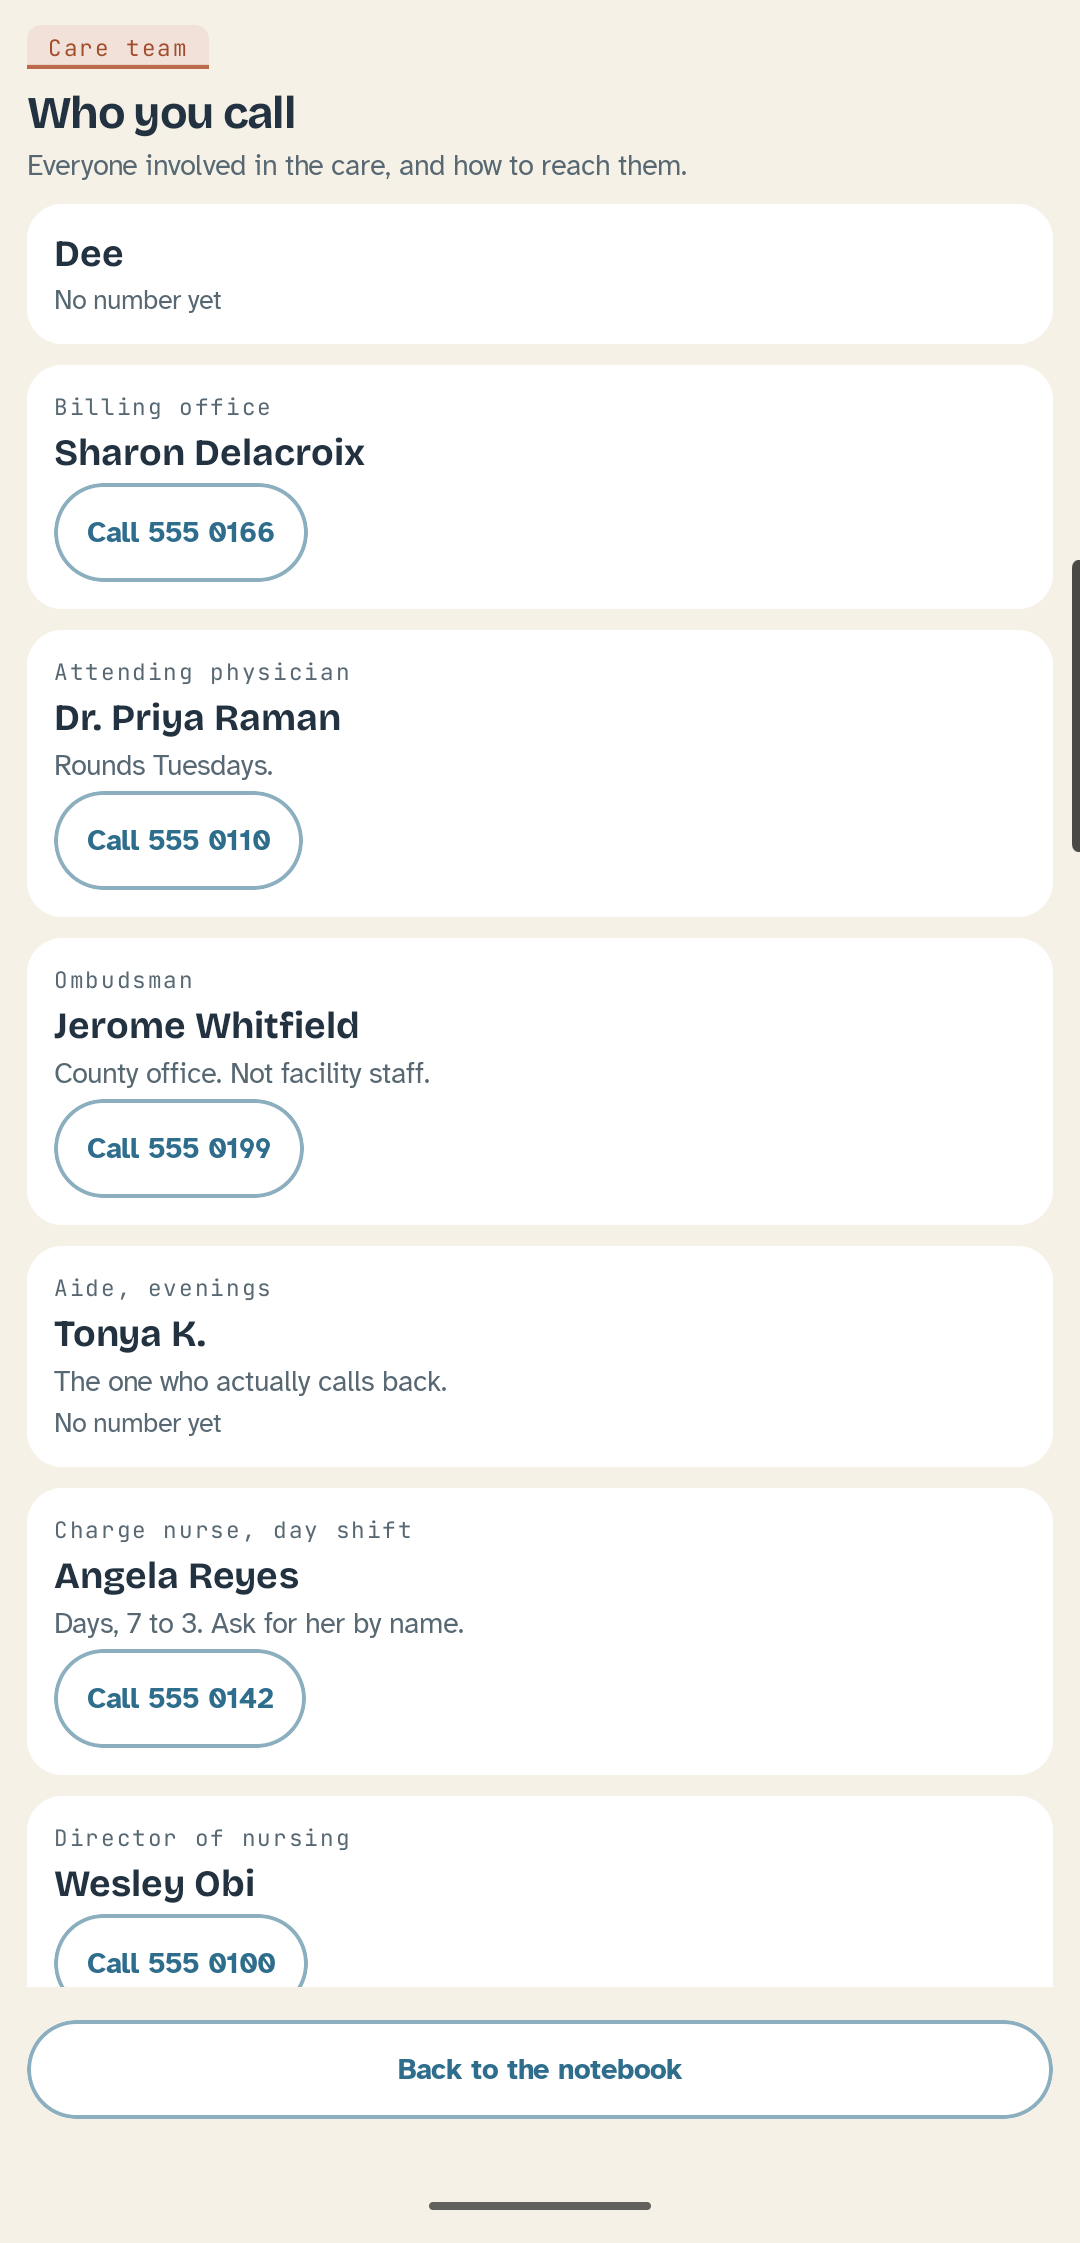
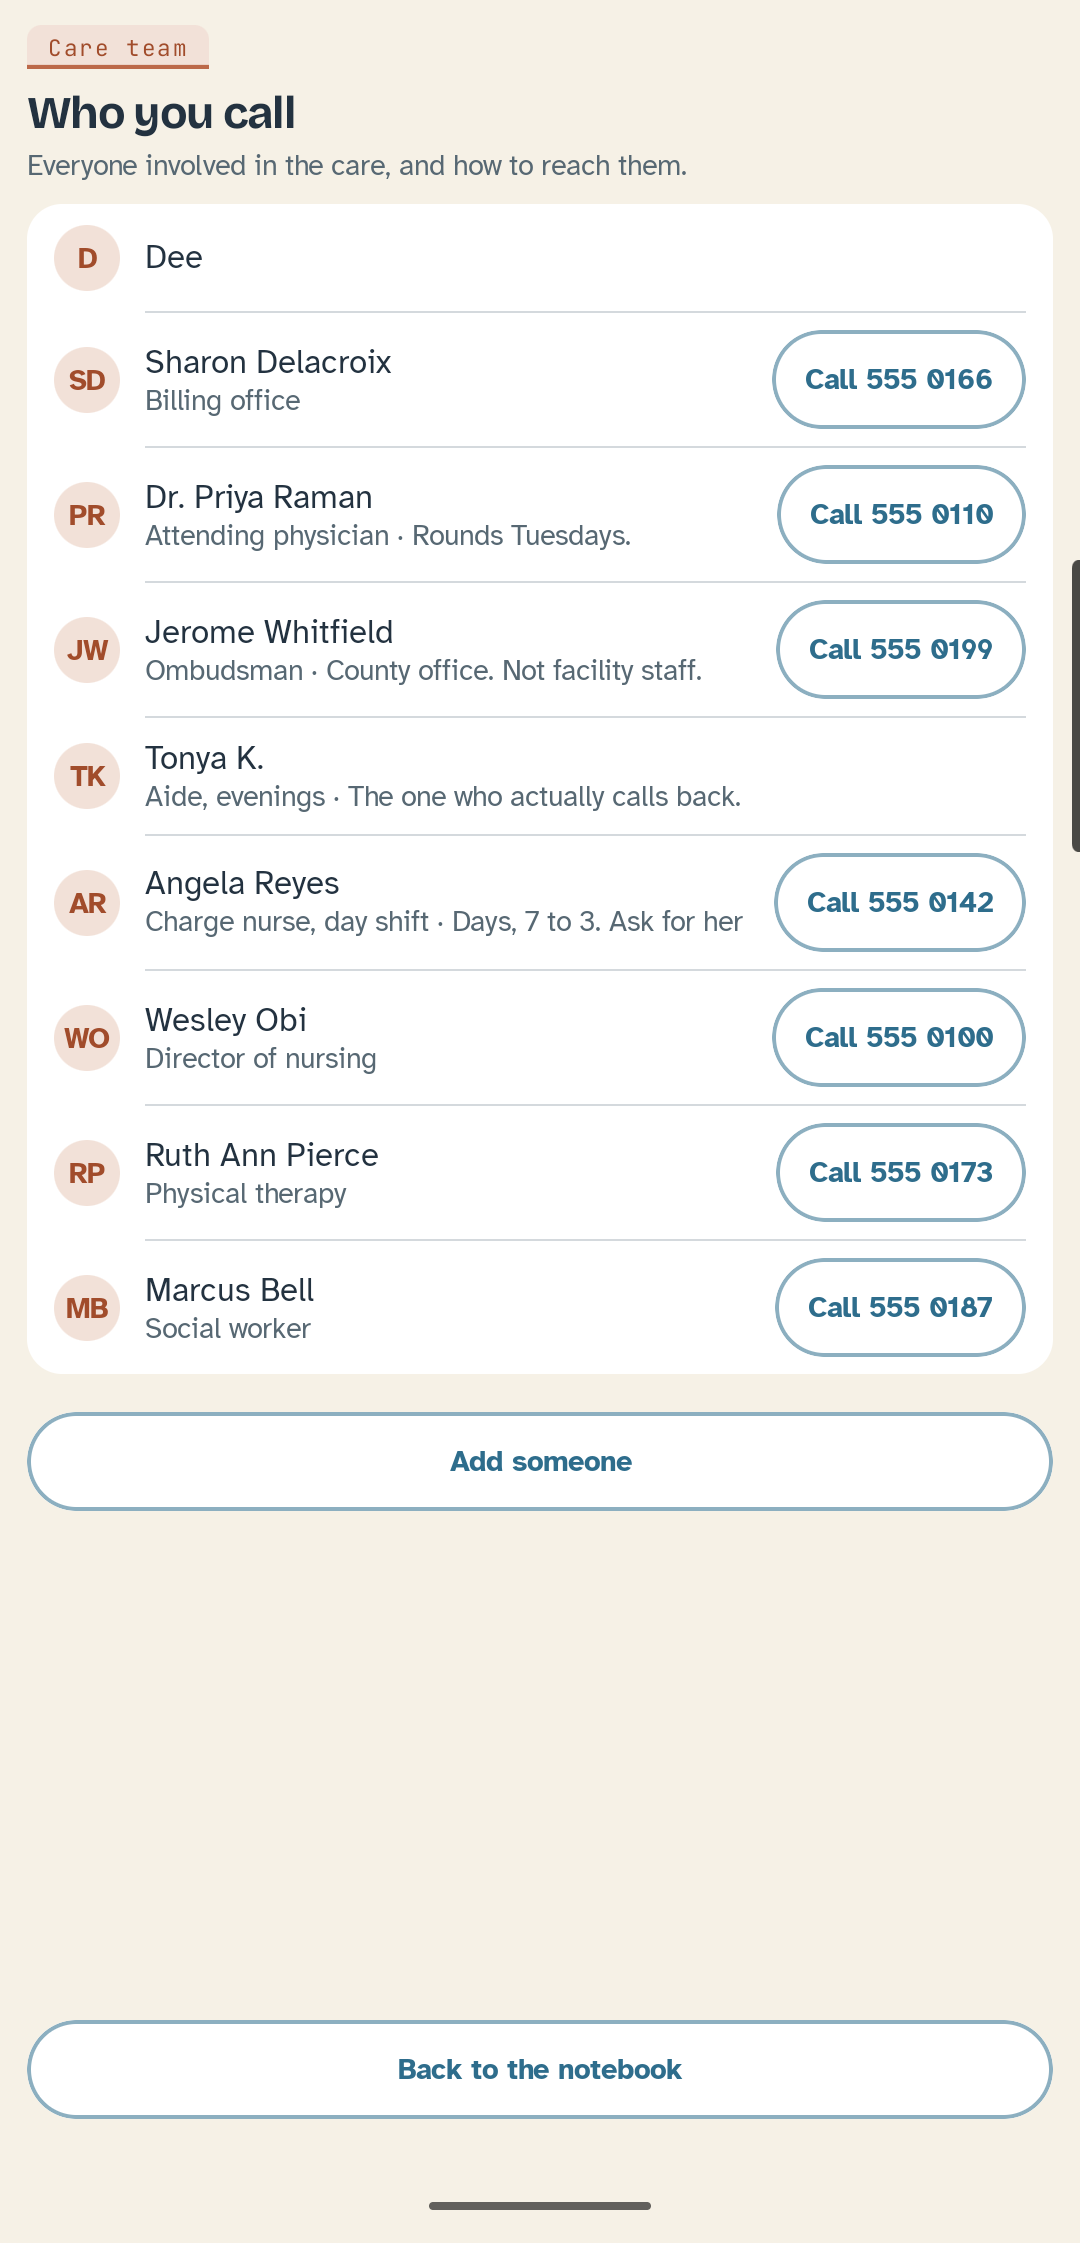
The care team is rows with faces, not a column of cards
#174, and the first section screen converted to the v4 shape.

Nine cards took two and a half screens. Nine dense rows with initial marks
take one, which is the difference between a list you scroll and a list you
scan, and scanning is what somebody does when they are looking for the one
person who calls back.

A card is for something with three or more lines a person reads. A name, a
role and a number is not that: it is something they scan for. DESIGN.md 7.

The number is an outlined action on the row itself, which is what grid
screen 11 draws and what law 2 gives to a dialable thing. It is the one
action worth taking about a person from a list, and it saves opening them
first to find it.

One grouped surface with hairlines rather than nine separate cards, so the
roster reads as one thing.

And the avatar's honorific handling is visible in the real app for the
first time: Dr. Priya Raman gives PR rather than DR. That defect was caught
by a unit test before any screen used the component, and this is what it
looks like when it is right.

diff --git a/android/app/src/main/kotlin/com/kamsiob/healthtrail/ui/screens/CareTeamScreen.kt b/android/app/src/main/kotlin/com/kamsiob/healthtrail/ui/screens/CareTeamScreen.kt
@@ -14,6 +14,10 @@ import androidx.compose.ui.platform.testTag
 import com.kamsiob.healthtrail.data.Repository
 import com.kamsiob.healthtrail.i18n.LocalStrings
 import com.kamsiob.healthtrail.ui.components.QuietButton
+import com.kamsiob.healthtrail.ui.theme.hueFor
+import com.kamsiob.healthtrail.ui.components.GroupedSurface
+import com.kamsiob.healthtrail.ui.components.DenseRow
+import com.kamsiob.healthtrail.ui.components.Avatar
 import com.kamsiob.healthtrail.ui.components.removableByLongPress
 import com.kamsiob.healthtrail.ui.components.TextAction
 import com.kamsiob.healthtrail.ui.theme.HealthTrail
@@ -72,14 +76,21 @@ fun CareTeamScreen(
             item { Spacer(Modifier.height(Space.l)) }
         }
 
-        for (person in people) {
-            item(key = person.id) {
-                PersonRow(
-                    person = person,
-                    onCall = { onCall(person) },
-                    onRemove = { onRemove(person) },
-                    onOpen = { onOpen(person) },
-                )
+        // **One group, not one card each.** The grid draws the people you call
+        // as a single grouped surface with hairlines between them.
+        if (people.isNotEmpty()) {
+            item {
+                GroupedSurface {
+                    people.forEachIndexed { index, person ->
+                        PersonRow(
+                            person = person,
+                            onCall = { onCall(person) },
+                            onRemove = { onRemove(person) },
+                            onOpen = { onOpen(person) },
+                            isLast = index == people.lastIndex,
+                        )
+                    }
+                }
                 Spacer(Modifier.height(Space.cardGap))
             }
         }
@@ -112,6 +123,7 @@ private fun PersonRow(
     onCall: () -> Unit,
     onRemove: () -> Unit,
     onOpen: () -> Unit,
+    isLast: Boolean,
 ) {
     val strings = LocalStrings.current
     val colors = HealthTrail.colors
@@ -128,65 +140,44 @@ private fun PersonRow(
     // be the app characterizing somebody it knows nothing about.
     val heading = name ?: phone ?: role
 
-    Column(
-        modifier = Modifier
-            .fillMaxWidth()
-            .clip(Radius.card)
-            .background(colors.card)
-            // **A tap opens the person now, rather than the form for
-            // correcting them.** Correcting a number is the rarer thing, and
-            // it moved onto the person's own page beside everything else about
-            // them. What a tap should open is the thing itself, which is the
-            // same rule the trail row learned tonight.
-            .removableByLongPress(strings["edit.hint"], onRemove, onOpen)
-            .testTag(CareTeamTags.person(person.id))
-            .padding(Space.cardPadding),
-    ) {
-        // The role is the eyebrow only when it is not already carrying the
-        // heading, so it never appears twice on the same card.
-        if (role != null && heading != role) {
-            Text(text = role, style = HealthTrail.type.mono, color = colors.ink2)
-            Spacer(Modifier.height(Space.xs))
-        }
-
-        if (heading != null) {
-            Text(
-                text = heading,
-                style = HealthTrail.type.displayS,
-                color = colors.ink,
-            )
-        }
-
-        person.notes?.takeIf { it.isNotBlank() }?.let { notes ->
-            Spacer(Modifier.height(Space.xs))
-            Text(text = notes, style = HealthTrail.type.bodyM, color = colors.ink2)
-        }
-
-        Spacer(Modifier.height(Space.xs))
-
-        if (phone != null) {
-            // A text action rather than a filled button. There is one per card,
-            // and a column of filled buttons turns a quiet list into a wall of
-            // blue, which is section 2.2's accent spent on repetition. The
-            // Unfiled tray made the same call for the same reason.
-            //
-            // When the number is already the heading, the action says "Call"
-            // rather than repeating the number two lines under itself.
-            TextAction(
-                label = if (heading == phone) {
-                    strings["careteam.call"]
-                } else {
-                    strings("careteam.call.number", "number" to phone)
-                },
-                onClick = onCall,
-                modifier = Modifier.testTag(CareTeamTags.call(person.id)),
-            )
+    // **A dense row with an avatar, not a card.** Grid screen 11, and
+    // `DESIGN.md` 7: a card is for something with three or more lines a person
+    // reads, and this is a name, a role and a number somebody scans for. Twelve
+    // cards is a wall; twelve rows with initial marks is scannable in one pass.
+    //
+    // **The number is an outlined action on the row itself**, which is what the
+    // grid draws and what law 2 gives to a dialable thing. It is the one action
+    // worth taking about a person from a list, and it saves opening them first.
+    DenseRow(
+        title = heading.orEmpty(),
+        subtitle = listOfNotNull(
+            role.takeIf { it != heading },
+            person.notes?.takeIf { it.isNotBlank() },
+        ).joinToString(" · ").takeIf { it.isNotBlank() },
+        leading = {
+            // The subject's own avatar carries blue, per `DESIGN.md` 7, and
+            // there is exactly one of them. Everyone else is the section's rose.
+            Avatar(name = heading.orEmpty(), hue = hueFor(Repository.Section.CARE_TEAM))
+        },
+        trailingContent = if (phone != null) {
+            {
+                QuietButton(
+                    label = if (heading == phone) {
+                        strings["careteam.call"]
+                    } else {
+                        strings("careteam.call.number", "number" to phone)
+                    },
+                    onClick = onCall,
+                    modifier = Modifier.testTag(CareTeamTags.call(person.id)),
+                )
+            }
         } else {
-            Text(
-                text = strings["careteam.no_phone"],
-                style = HealthTrail.type.bodyS,
-                color = colors.ink2,
-            )
-        }
-    }
+            null
+        },
+        divider = !isLast,
+        onClick = onOpen,
+        modifier = Modifier
+            .removableByLongPress(strings["edit.hint"], onRemove, onOpen)
+            .testTag(CareTeamTags.person(person.id)),
+    )
 }
